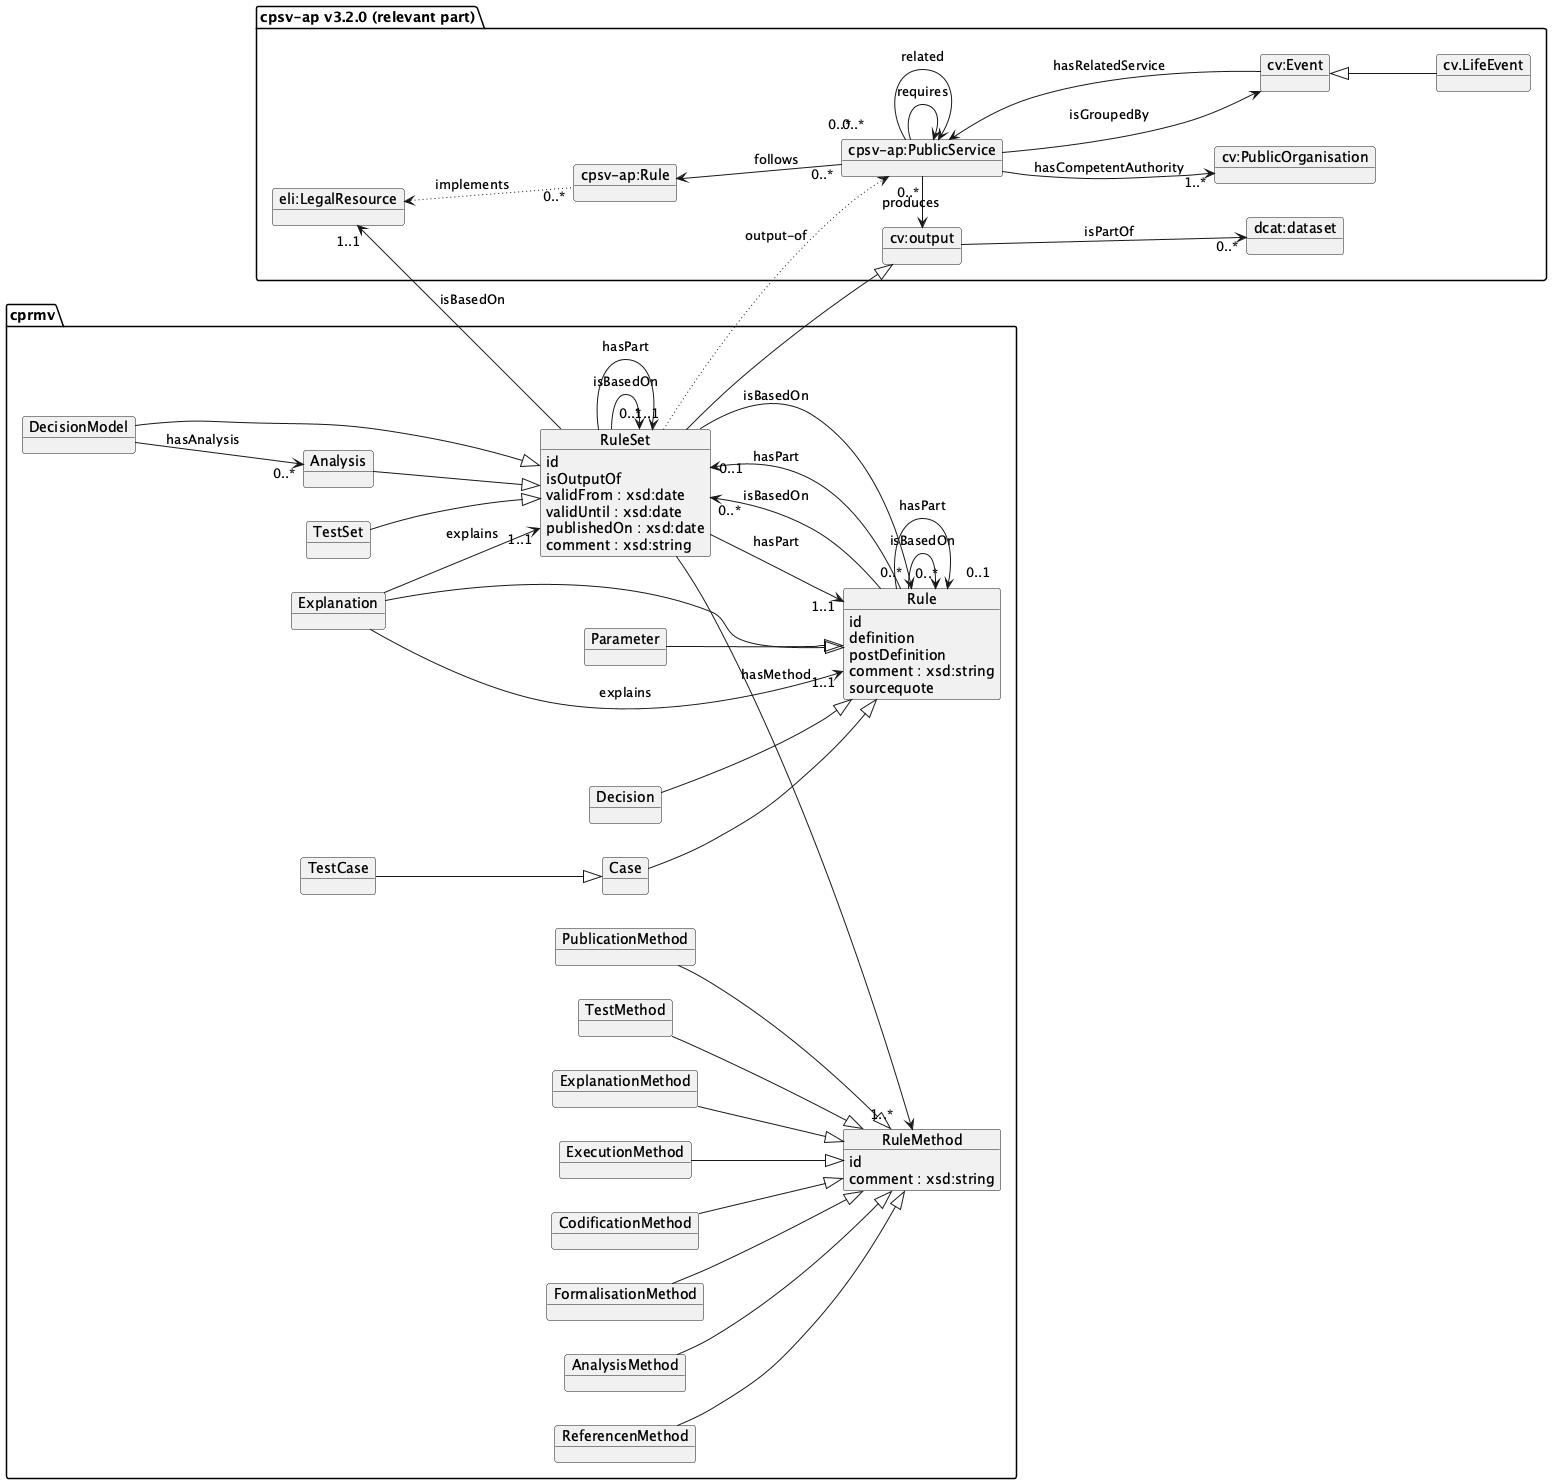
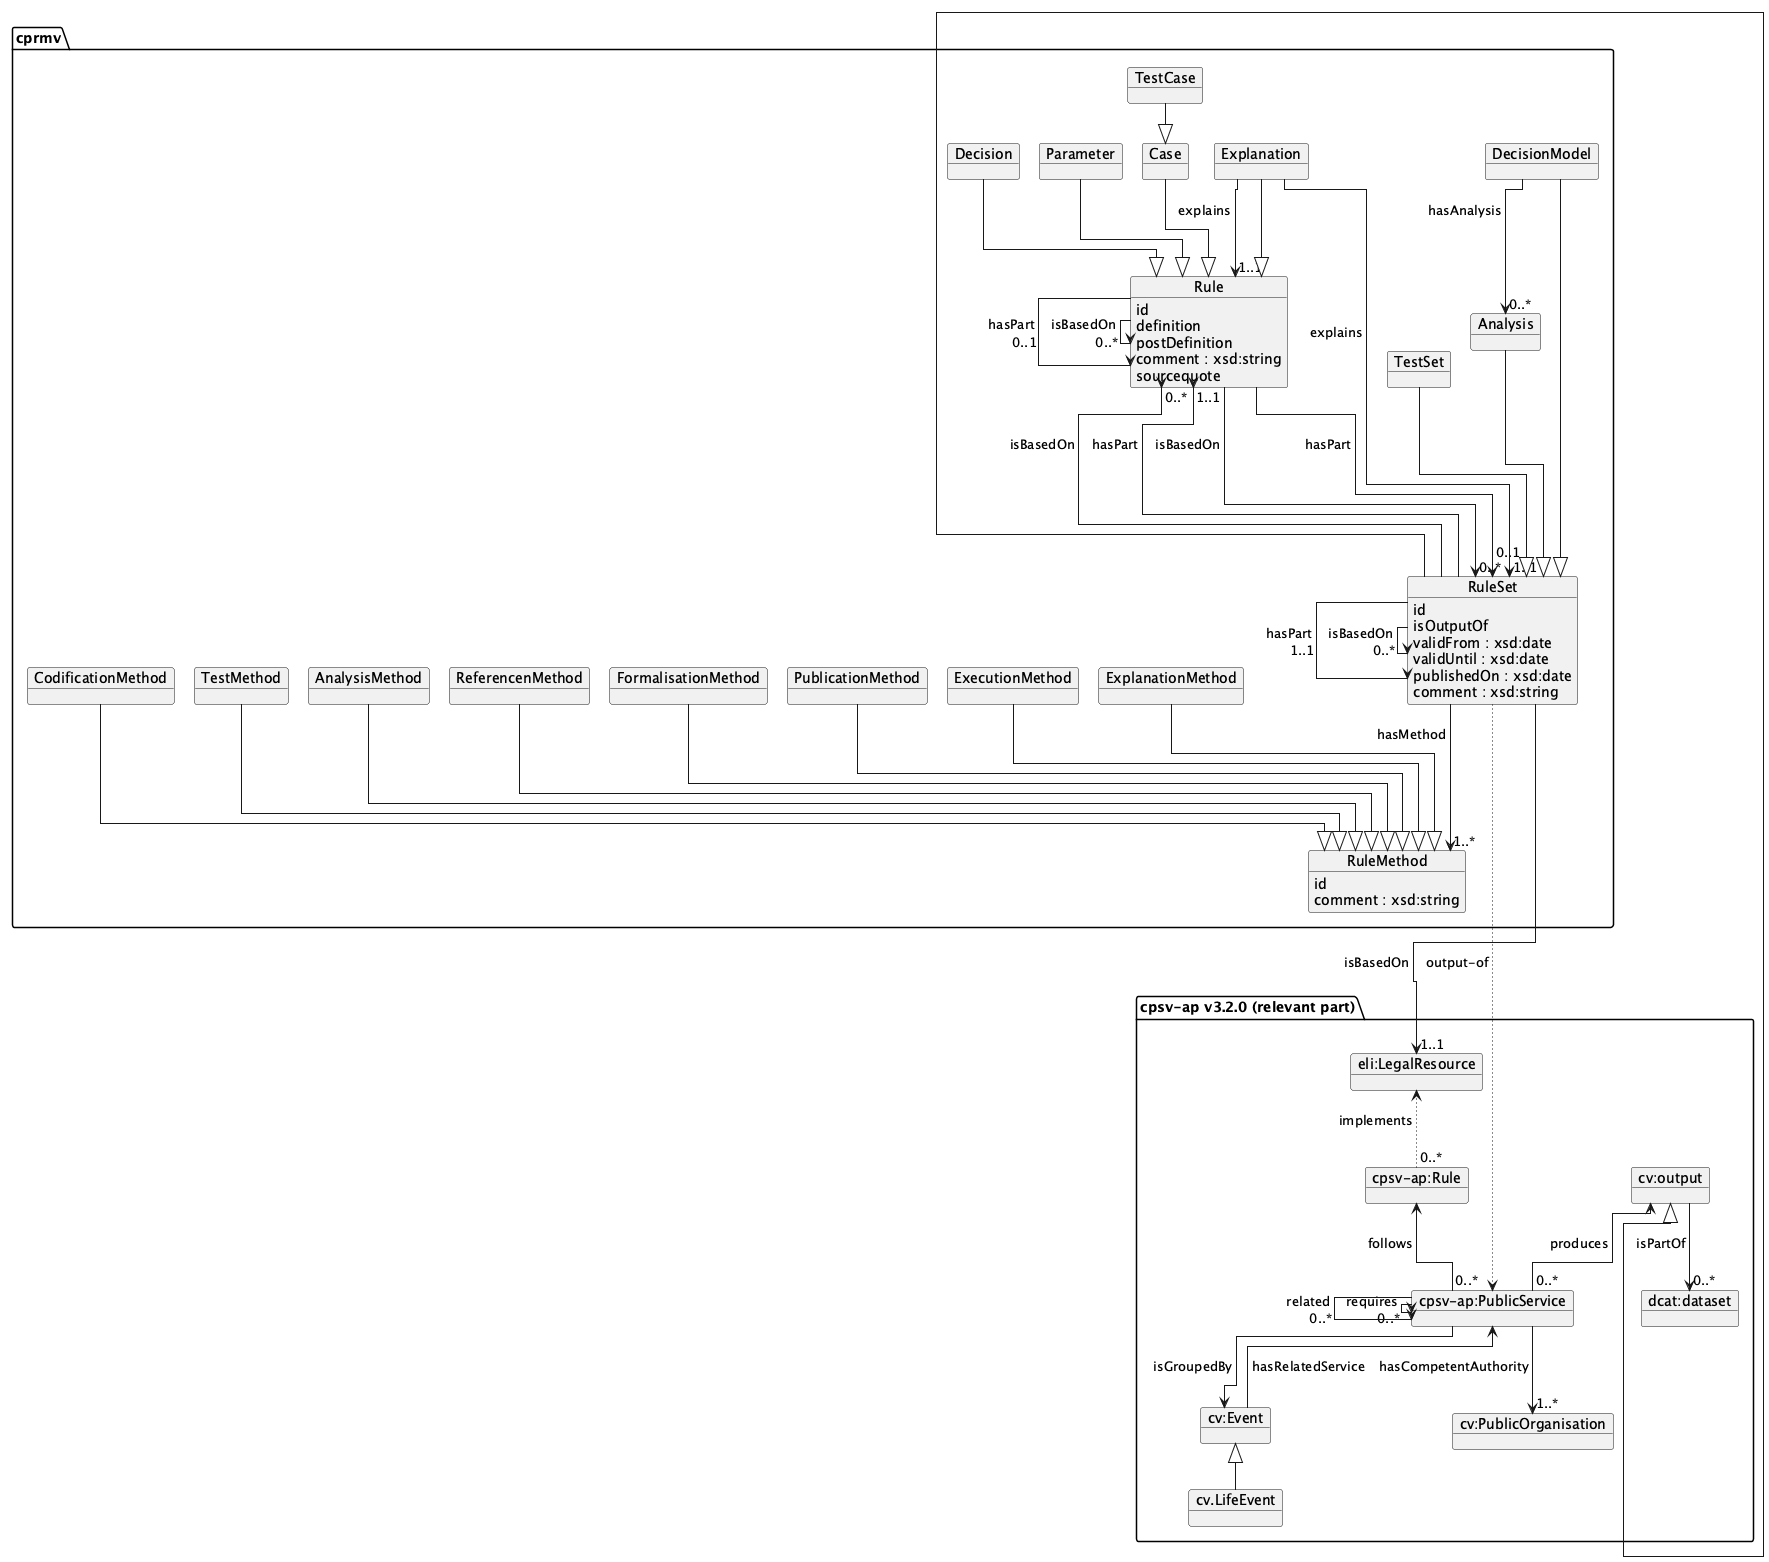
improve class diagram layout (item on Roadmap 0.4.1).

diff --git a/html/public/0.4.0/index.html b/html/public/0.4.0/index.html
@@ -1,7 +1,7 @@
 <!DOCTYPE html><html lang="en"><head>
 <meta name="viewport" content="width=device-width, initial-scale=1, shrink-to-fit=no">
 <meta content="text/html; charset=utf-8" http-equiv="content-type">
-<meta name="generator" content="ReSpec 35.4.1">
+<meta name="generator" content="ReSpec 35.8.0">
 <style>
 dfn{cursor:pointer}
 .dfn-panel{position:absolute;z-index:35;min-width:300px;max-width:500px;padding:.5em .75em;margin-top:.6em;font-family:"Helvetica Neue",sans-serif;font-size:small;background:#fff;background:var(--indextable-hover-bg,#fff);color:#000;color:var(--text,#000);box-shadow:0 1em 3em -.4em rgba(0,0,0,.3),0 0 1px 1px rgba(0,0,0,.05);box-shadow:0 1em 3em -.4em var(--tocsidebar-shadow,rgba(0,0,0,.3)),0 0 1px 1px var(--tocsidebar-shadow,rgba(0,0,0,.05));border-radius:2px}
